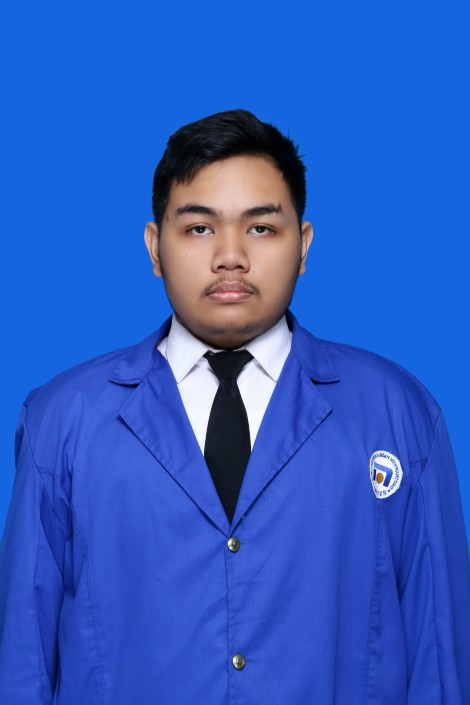
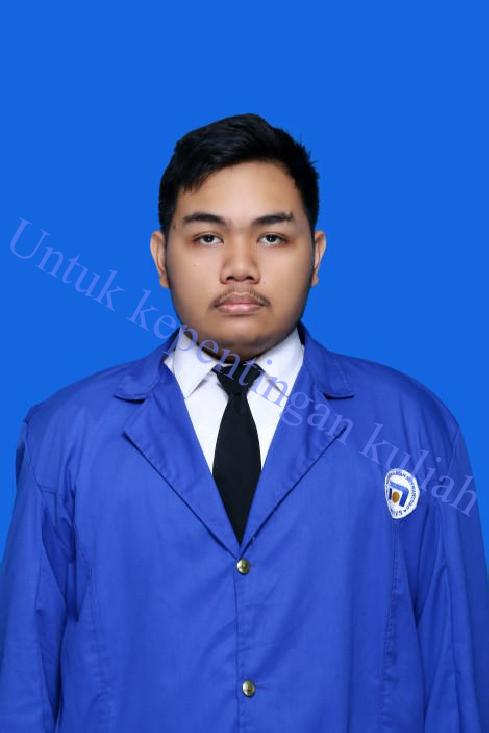
Update -add jadwal in index.php -new webdailyjournal.sql -new photo profile

diff --git a/index.php b/index.php
@@ -23,7 +23,7 @@ if(isset($_SESSION['username'])){
 </head>
 <body>
     <!--Navigation-->
-    <nav class="navbar navbar-expand-lg bg-body-tertiary sticky-top">
+    <nav class="navbar navbar-expand-lg w3-orange sticky-top">
             <div class="container">
                 <a class="navbar-brand" href="#">Me Website</a>
                 <button class="navbar-toggler" type="button" data-bs-toggle="collapse" data-bs-target="#navbarSupportedContent" aria-controls="navbarSupportedContent" aria-expanded="false" aria-label="Toggle navigation">
@@ -74,7 +74,7 @@ if(isset($_SESSION['username'])){
             </div>
     </nav>
     <!--Hero Section-->
-    <section id="hero" class="text-center p-5 text-sm-start bg-secondary">
+    <section id="hero" class="text-center p-5 text-sm-start w3-deep-purple">
         <div class="container">
             <div class="d-sm-flex flex-sm-row-reverse border-4 border-white align-items-center">
                 <img src="" alt="" class="img-fluid" width="300">
@@ -86,6 +86,47 @@ if(isset($_SESSION['username'])){
         </div>
     </section>
     <!--Article Section-->
+    <section id="jadwal" class="text-center p-5">
+        <div class="container">
+            <h1 class="fw-bold display-4 pb-3">Jadwal</h1>
+            <div class="row row-cols-1 row-cols-md-4 g-2 justify-content-center">
+                <?php
+                $jadwal = [
+                ["Senin",[["Logika Informatika","09.30-12.00 H.4.11"],["Basis Data","12.30-14.10 H.4.3"]],"red"],
+                ["Selasa",[["Sistem Informasi","09.30-12.00 H.4.2"],["Pemprograman Berbasis Web","12.30-14.10 D.2.J"],["Pendidikan Kewarganegaraan","18.30-20.10 Aula H7"]],"green"],
+                ["Rabu",[["Probabilitas dan Statistika","09.30-12.00  H.4.8"],["Rekayasa Perangkat Lunak","12.30-15.00 H.4.4"]],"blue"],
+                ["Kamis",[["Basis Data","10.20-12.00 D.3.M"],["Sistem Operasi","12.30-15.00 H.4.11"]],"yellow"],
+                ["Jum'at",[],"gray"],
+                ["Sabtu",[],"gray"]
+                ];
+                foreach ($jadwal as $hari){
+                    $nama_hari = $hari[0];
+                    $jadwalhari = $hari[1];
+                    $color = $hari[2];
+
+                    ?>
+                    <div class="col">
+                        <div class="card w3-<?=$color?>" style="width: 18rem;">
+                            <div class="card-body">
+                                <h5 class="card-title fw-bold"><?=$hari[0]?></h5>
+                                <p class="card-text">
+                                    <?php
+                                    foreach ($jadwalhari as $list) {
+                                        echo $list[0]."<br>";
+                                        echo $list[1]."<br>";
+                                        echo "<br>";
+                                    }
+                                    ?>
+                                </p>
+                            </div>
+                        </div>
+                    </div>
+                    <?php
+                }
+                ?>
+            </div>
+        </div>
+    </section>
     <!-- article begin -->
     <section id="article" class="text-center p-5">
         <div class="container">
